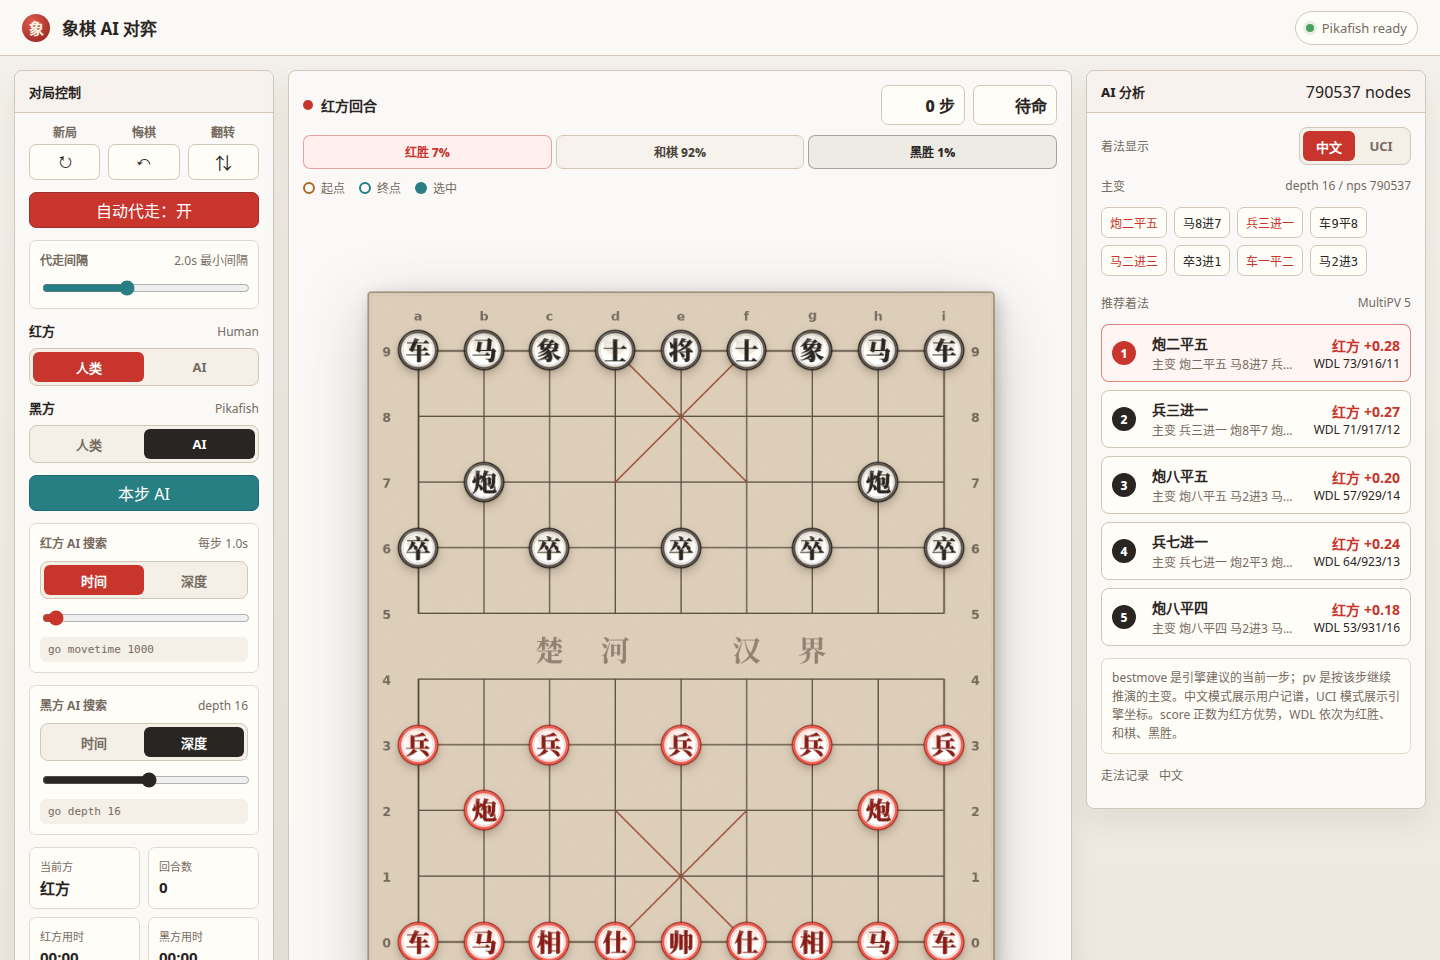
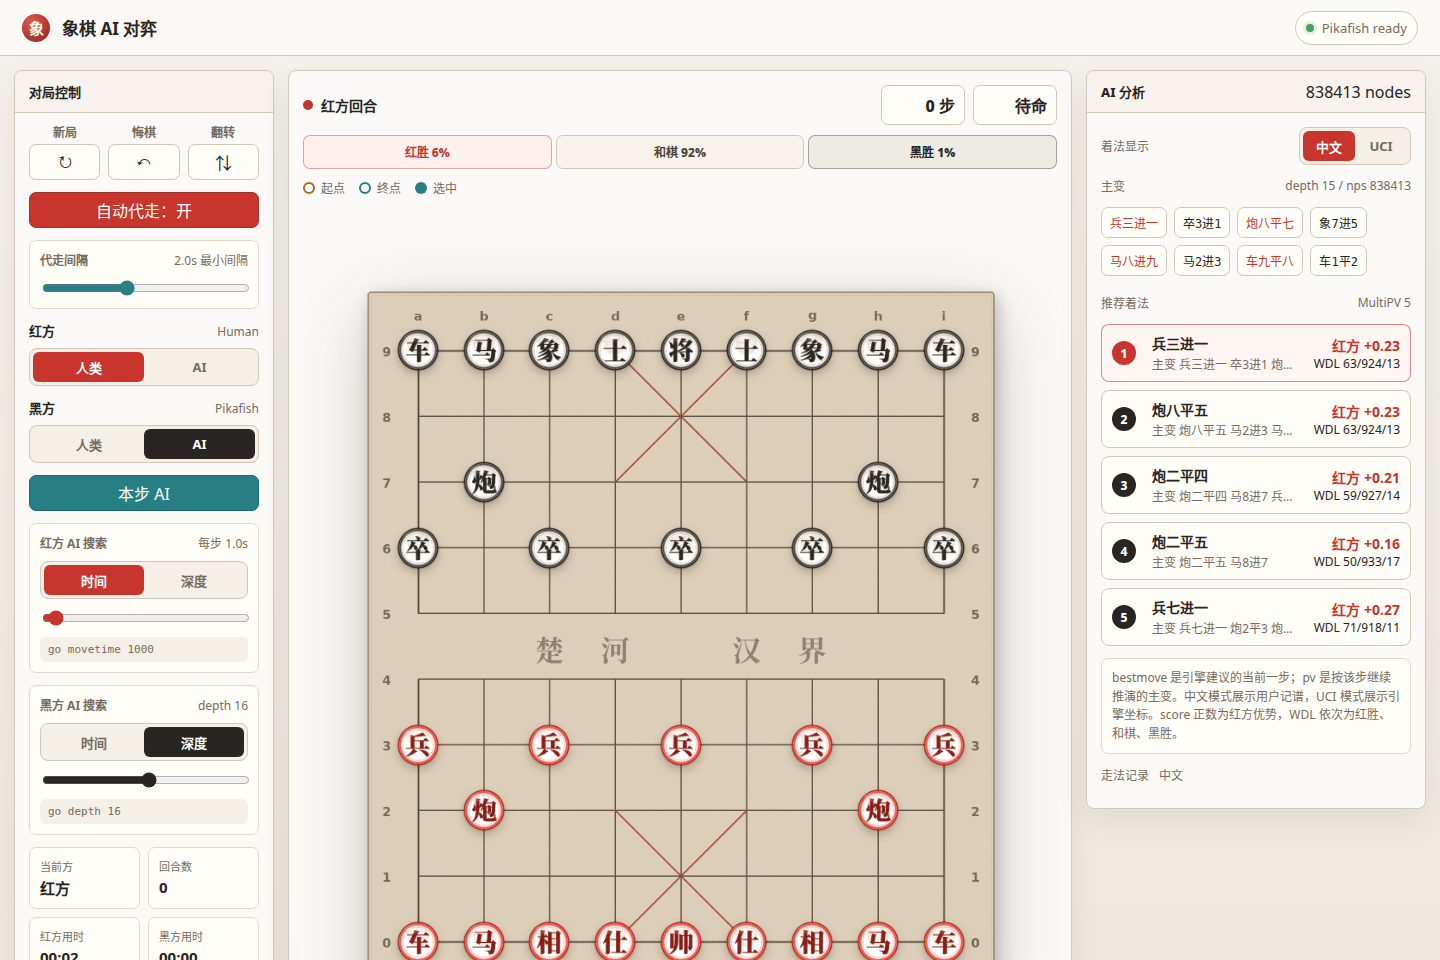
Add active side clocks

diff --git a/web/frontend/app.js b/web/frontend/app.js
@@ -19,6 +19,8 @@ const state = {
   analysis: null,
   autoTimer: null,
   analysisKey: "",
+  clocks: { red: 0, black: 0 },
+  lastClockTick: Date.now(),
 };
 
 const el = {
@@ -26,6 +28,8 @@ const el = {
   turnText: document.getElementById("turnText"),
   turnStat: document.getElementById("turnStat"),
   roundStat: document.getElementById("roundStat"),
+  redClock: document.getElementById("redClock"),
+  blackClock: document.getElementById("blackClock"),
   moveCount: document.getElementById("moveCount"),
   thinking: document.getElementById("thinking"),
   redLabel: document.getElementById("redLabel"),
@@ -129,6 +133,29 @@ function renderStatus() {
   el.redLabel.textContent = state.players.red === "human" ? "Human" : "Pikafish";
   el.blackLabel.textContent = state.players.black === "human" ? "Human" : "Pikafish";
   el.manualAi.disabled = state.gameOver;
+  renderClocks();
+}
+
+function formatClock(ms) {
+  const totalSeconds = Math.floor(ms / 1000);
+  const minutes = Math.floor(totalSeconds / 60);
+  const seconds = totalSeconds % 60;
+  return `${String(minutes).padStart(2, "0")}:${String(seconds).padStart(2, "0")}`;
+}
+
+function renderClocks() {
+  el.redClock.textContent = formatClock(state.clocks.red);
+  el.blackClock.textContent = formatClock(state.clocks.black);
+}
+
+function tickClock() {
+  const now = Date.now();
+  const elapsed = now - state.lastClockTick;
+  state.lastClockTick = now;
+  if (!state.gameOver) {
+    state.clocks[state.sideToMove] += elapsed;
+    renderClocks();
+  }
 }
 
 function renderHistory(positionData) {
@@ -329,6 +356,8 @@ function bindControls() {
     state.lastMove = null;
     state.analysis = null;
     state.analysisKey = "";
+    state.clocks = { red: 0, black: 0 };
+    state.lastClockTick = Date.now();
     syncPosition().then(() => refreshAnalysis()).then(() => scheduleAuto()).catch(showError);
   });
   document.getElementById("undoMove").addEventListener("click", () => {
@@ -397,6 +426,7 @@ function bindControls() {
 bindControls();
 updateAiSearch("red");
 updateAiSearch("black");
+setInterval(tickClock, 500);
 syncPosition().then(() => refreshAnalysis()).then(() => scheduleAuto()).catch(showError);
 
 if ("serviceWorker" in navigator) {

diff --git a/web/frontend/index.html b/web/frontend/index.html
@@ -76,8 +76,8 @@
             <div class="status-grid">
               <div class="stat"><span>当前方</span><strong id="turnStat">红方</strong></div>
               <div class="stat"><span>回合数</span><strong id="roundStat">0</strong></div>
-              <div class="stat"><span>红方用时</span><strong>00:00</strong></div>
-              <div class="stat"><span>黑方用时</span><strong>00:00</strong></div>
+              <div class="stat"><span>红方用时</span><strong id="redClock">00:00</strong></div>
+              <div class="stat"><span>黑方用时</span><strong id="blackClock">00:00</strong></div>
             </div>
           </div>
         </aside>